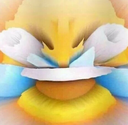
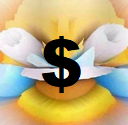
added the currency converter section, added css that fits

Changed region(s): [[0.3125, 0.288, 0.6562, 0.744]]

diff --git a/index.html b/index.html
@@ -5,18 +5,51 @@
 	<meta http-equiv="X-UA-Compatible" content="IE=edge">
 	<meta name="viewport" content="width=device-width, initial-scale=1.0">
 	<link rel="stylesheet" href="assets/css/screen.css">
+	<script src="assets/js/currency-converter-api.js"></script>
 	<script src="assets/js/joke-api.js"></script>
 	<script src="assets/js/script.js"></script>
-	<title> Joke Extension </title>
+	<title> Random Joke Or Currency Converter </title>
 </head>
 <body>
-	<header> Press the button to receive a joke </header>
-	<button type="button" id="new-joke">New joke</button>
-	<div id="options">
-		<label for="blacklistFlags"> No Racism/NSFW</label>
-		<input type="checkbox" value="nsfw,racist" id="blacklistFlags">
+
+	<div class="currency-converter-ext">
+		<header> Currency Converter </header>
+		<div class="flex-container">
+			<form>
+				<label for="from">From:</label>
+				<select id="from" required>
+					<!-- add options -->
+				</select>
+		
+				<label for="to">To:</label>
+				<select id="to" required>
+					<!-- add options -->
+				</select>
+		
+				<label for="q"> Amount: </label>
+				<input type="number" id="q" min="0" autocomplete="off" required>
+		
+				<button type="submit">Convert</button>
+			</form>
+
+			<article class="result">
+				<h2> temp </h2>
+				<p> From -> to: end </p>
+			</article>
+		</div>
+		<button type="button" class="change" data-target="joke">Change To Joke </button>
 	</div>
 
-	<div id="result"></div>
+	<div class="joke-api-ext hidden">
+		<header> Press the button to receive a joke </header>
+		<button type="button" id="new-joke">New joke</button>
+		<div id="options">
+			<label for="blacklistFlags"> No Racism/NSFW</label>
+			<input type="checkbox" value="nsfw,racist" id="blacklistFlags">
+		</div>
+		<div id="result"></div>
+		<button type="button" class="change" data-target="currency">Change To Currency Converter </button>
+	</div>
+	
 </body>
 </html>

diff --git a/assets/css/screen.css b/assets/css/screen.css
@@ -1,19 +1,16 @@
 @import url('https://fonts.googleapis.com/css2?family=Josefin+Sans&display=swap');
 
+/* ALL */
+
 body {
-	width: 20rem;
-	height: 15rem;
 	background-color: black;
-	color: white;
-	font-size: 1rem;
-	font-weight: bold;
-	font-family: 'Josefin Sans', sans-serif;
 }
 
 header {
 	display: block;
 	text-align: center;
-	font-size: 1rem;
+	font-size: 1.5rem;
+	margin-top: 2rem;
 	text-decoration: underline;
 	margin-bottom: 0.6rem;
 }
@@ -22,12 +19,7 @@ p {
 	margin-bottom: 1rem;
 }
 
-label {
-	margin-left: 25%;
-}
-
 button {
-	margin-left: 37%;
 	border: solid white 0.1rem;
 	border-radius: 0.5rem;
 	font-family: 'Josefin Sans', sans-serif;
@@ -37,4 +29,68 @@ button {
 
 button:hover {
 	background-color: lightgrey;
+}
+
+.hidden {
+	display: none;
+}
+
+.joke-api-ext, .currency-converter-ext {
+	background-color: black;
+	color: white;
+	font-size: 1rem;
+	font-weight: bold;
+	font-family: 'Josefin Sans', sans-serif;
+}
+
+.joke-api-ext .change, .currency-converter-ext .change {
+	position: absolute;
+	bottom: 2rem;
+	right: 2rem;
+}
+
+/* CURRENCY CONVERTER */
+
+.currency-converter-ext {
+	width: 30rem;
+	height: 10rem;
+}
+
+.currency-converter-ext form {
+	display: flex;
+	justify-content: center;
+	align-items: center;
+	flex-direction: column;
+	margin-top: 2rem;
+	margin-bottom: 5rem;
+}
+
+.currency-converter-ext .flex-container {
+	display: flex;
+	justify-content: space-evenly;
+	align-items: center;
+}
+
+.currency-converter-ext select, .currency-converter-ext input {
+	margin-bottom: 1rem;
+}
+
+.currency-converter-ext input {
+	width: 4rem;
+}
+
+
+/* JOKE API */
+
+.joke-api-ext {
+	width: 30rem;
+	height: 15rem;
+}
+
+.joke-api-ext label {
+	margin-left: 25%;
+}
+
+.joke-api-ext button:not(.change) {
+	margin-left: 37%;
 }

diff --git a/assets/js/script.js b/assets/js/script.js
@@ -5,5 +5,8 @@ const URL = "https://jokeapi-v2.p.rapidapi.com/joke/Any?format=json&idRange=0-15
 
 async function init(){
 	document.addEventListener("click", displayJoke);
+
+	injectCurrencyStart(); //shows "From" and "To" options
+	document.addEventListener("click", displayCurrencyConverter);
 }
 

diff --git a/assets/js/currency-converter-api.js b/assets/js/currency-converter-api.js
@@ -1,0 +1,10 @@
+"use strict";
+
+function injectCurrencyStart(){
+	
+}
+
+function displayCurrencyConverter(){
+
+}
+
